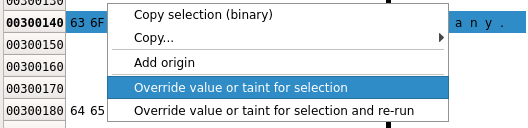
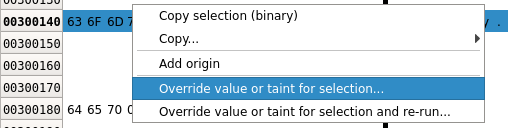
ida: document overrides, nops, skips

Changed region(s): [[0.0, 0.0, 1.0, 1.0]]

diff --git a/python/idabincat/gui.py b/python/idabincat/gui.py
@@ -360,7 +360,7 @@ class BinCATMemForm_t(idaapi.PluginForm):
         # add override for each byte
         mask, res = QtWidgets.QInputDialog.getText(
             None,
-            "Add override",
+            "Add override...",
             "Override each byte in the range %0X-%0X (e.g. |00|!|00| (value=0, untainted), !|FF| (fully tainted, do not change value))"
             % (abs_start, abs_end),
             text="!|FF|")
@@ -1256,7 +1256,7 @@ class BinCATRegistersForm_t(idaapi.PluginForm):
     def _handle_context_menu_requested(self, qpoint):
         menu = QtWidgets.QMenu(self.regs_table)
         add_override = QtWidgets.QAction(
-            "Add override", self.regs_table)
+            "Add override...", self.regs_table)
         add_override.triggered.connect(
             lambda: self._add_override(self.regs_table.indexAt(qpoint)))
         menu.addAction(add_override)

diff --git a/python/idabincat/hexview/hexview.py b/python/idabincat/hexview/hexview.py
@@ -735,9 +735,9 @@ class HexViewWidget(QWidget, HexViewBase, LoggingObject):
 
         if self._hsm.start is not None and self._hsm.end is not None:
             menu.addSeparator()  # --------------------------------------
-            add_action(menu, "Override value or taint for selection",
+            add_action(menu, "Override value or taint for selection...",
                        lambda: self._handle_add_taint_override(False))
-            add_action(menu, "Override value or taint for selection and re-run",
+            add_action(menu, "Override value or taint for selection and re-run...",
                        lambda: self._handle_add_taint_override(True))
         return menu
 

diff --git a/doc/manual.md b/doc/manual.md
@@ -25,37 +25,34 @@ start from. Then, you should:
   **BinCAT >> Analyze from here** menu
   * the **Ctrl + Shift + a** shortcut
 
-### Override taint
-*Taint* can be overridden for any register value or memory byte, at any
-instruction of the program. Overrides will apply at the *next* instruction.
+### Override taint or values
+*Taint* or *Value* can be overridden for any register value or memory byte, at
+any instruction of the program. Overrides will apply at the *next* instruction.
 
-*Taint* overrides can be defined from the following views:
+Overrides can be defined from the following views:
 * from the **IDA View-A** view: right click on a register name or memory
-  address, then use the **Edit >> BinCAT >> Add taint override...** menu, or
-  the contextual menu (right click)
+  address, click the **BinCAT >> Add override...** contextual menu
 
-![Add override from IDA View-A using context menu](img/add-taint-override-view-a.png)
+![Add override from IDA View-A using context menu](img/add-override-view-a.png)
 
 * from the **IDA View-A** view: click on a register name or memory address,
   then use the **Ctrl + Shift + o** shortcut
 * from the **BinCAT Registers** view which shows the registers: right click on
-  a register, then choose the **Add taint override** menu
+  a register, then choose the **Add override...** menu
 
 ![Add override from BinCAT Registers view using context menu](img/add-taint-override-registers-view.png)
 
 * from the **BinCAT Memory** view which shows the contents of the memory: select
-  a memory range, then right click, then choose the **Override taint for
-  selection** menu, and input a mask that must be applied to each selected byte
+  a memory range, then right click, then choose the **Override value or taint for
+  selection** menu
 
 ![Add override from BinCAT Memory view using context menu](img/add-taint-override-memory-view.png)
 
-The following values can be used for register overrides:
-* **TAINT_ALL** indicates that all register bytes are tainted
-* **TAINT_NONE** indicates that no register bytes are tainted
-* a binary or hexadecimal taint mask, such as **0x0F** or **0b00001111**, which
-  will taint the least significant nibble, and untaint the others
+Overrides are made up of an optional value (ex. **|00|**, **0xF0**. Value will be left unchanged if not specified) and a mandatory taint mask (ex. **!0x0F**, **!|FF|**)
 
-For values stored in memory, binary or hexadecimal taint masks are supported.
+For register overrides, the following taint masks are also valid:
+* **!TAINT_ALL** indicates that all register bytes are tainted
+* **!TAINT_NONE** indicates that no register bytes are tainted
 
 Defined taint overrides are then displayed in the **BinCAT Overrides** view.
 
@@ -119,6 +116,16 @@ Memory contents are displayed as a grid, using the same conventions are for the 
 This view lists all user-defined taint overrides, rendered as a grid. Overrides
 can be directly modified by editing grid cells. To remove an override, right
 click on the override that is to be removed, then choose the **Remove** menu.
+
+This view also lists the instructions that are replaced with NOPs by BinCAT. To
+replace an instruction with a NOP, right click this instruction in **IDA
+View-A**, then select **BinCAT >> Replace this instruction with nop**
+
+This view also lists functions that are skipped by BinCAT. To skip a function,
+right click at its address in **IDA View-A**, select **BinCAT >> Skip function
+that starts at current address...**, then input the number of arguments that
+this function takes, as well as its return value, as requested by the dialog
+box.
 
 This view also features a **Re-run analysis** button, which allows conveniently
 re-run the analysis, with updated overrides.

diff --git a/doc/tutorial.md b/doc/tutorial.md
@@ -102,11 +102,13 @@ mem[0x300200] = |6c6f6c2100|
 This tutorial shows how to taint a register, and observe taint propagation.
 
 1. Go back to address `0x93B`
-2. From the **BinCAT Memory** view, section `global`, override the value of
+2. From the **BinCAT Memory** view, section `global`, override the taint of
    every byte at addresses `0x300140`-`0x300147` which contains the
    null-terminated `company` string (see section [Override
-   taint](manual.md#override-taint) of the manual), and set it to `0xFF`.
-   Re-run the analysis.
+   taint or values](manual.md#override-taint-or-values) of
+   the manual), and set it to `!0xFF` (this fully taints
+   the byte, without changing its value).  Re-run the
+   analysis.
 3. Advance to the next instruction at address `0x93F`, and observe that this
    memory range is indeed tainted: both the ASCII and hexadecimal
    representations of this string are displayed as green text
